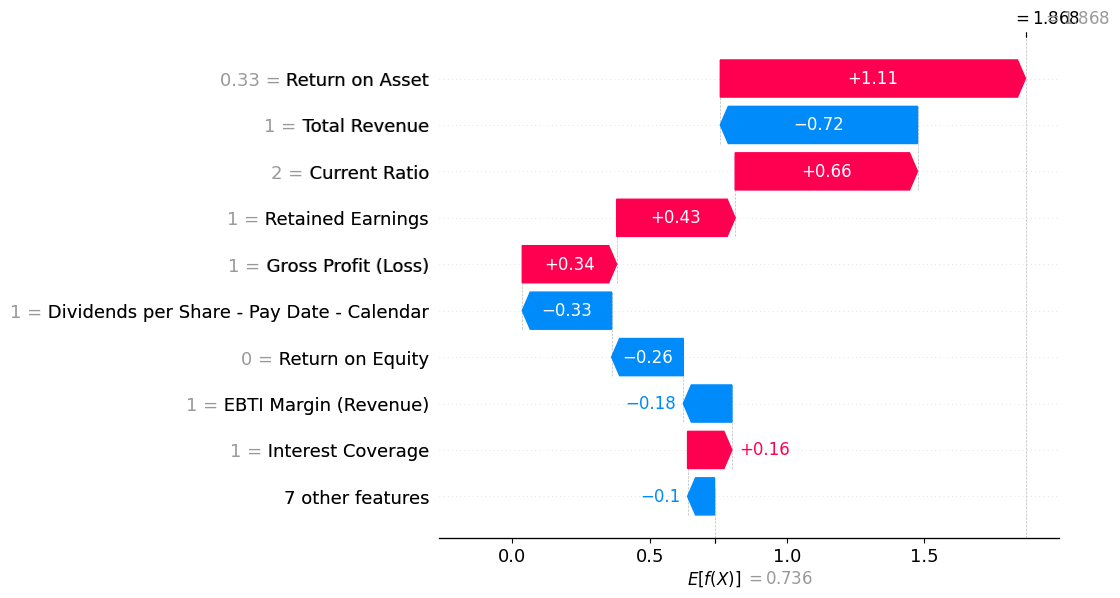
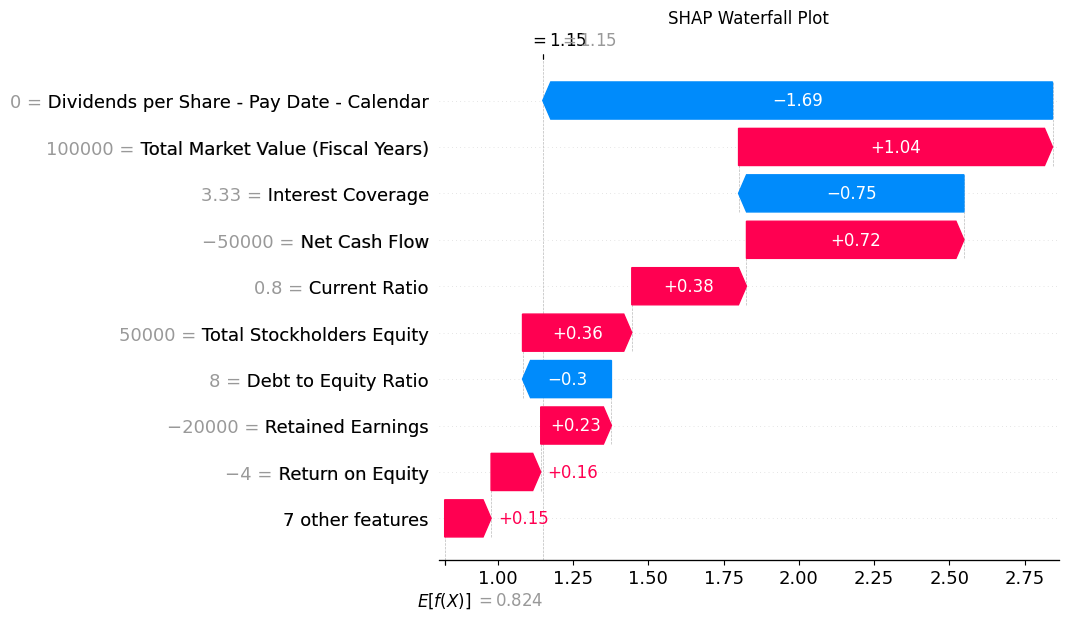
Pushing changes

diff --git a/credit_risk/risk_model/views.py b/credit_risk/risk_model/views.py
@@ -281,31 +281,6 @@ def XGB_XAI(input_df):
     #     # "total_interest_and_related_expense": 50000.0,  # High interest payments
     #     # "sales_turnover_net": 400000.0,  # Slow turnover, low efficiency
     # }
-    
-    # ratios = calculateRatios(input_data)
-    
-    # combined_data = {**input_data, **ratios}
-    
-    # features = {
-    #     "Cash": combined_data["cash"],
-    #     "Earnings Before Interest": combined_data["earnings_before_interest"],
-    #     "Gross Profit (Loss)": combined_data["gross_profit"],
-    #     "Retained Earnings": combined_data["retained_earnings"],
-    #     "EBTI Margin (Revenue)": combined_data["EBTI Margin"],
-    #     "Dividends per Share - Pay Date - Calendar": combined_data["dividends_per_share"],
-    #     "Total Stockholders Equity": combined_data["total_stockholders_equity"],
-    #     "Total Market Value (Fiscal Years)": combined_data["total_market_value"],
-    #     "Total Revenue": combined_data["total_revenue"],
-    #     "Net Cash Flow": combined_data["net_cash_flow"],
-    #     "Debt to Equity Ratio": combined_data["Debt_to_Equity"],
-    #     "Return on Asset": combined_data["Return on Asset Ratio"],
-    #     "Interest Coverage": combined_data["Interest Coverage"],
-    #     "Current Ratio": combined_data["Current Ratio"],
-    #     "Return on Equity": combined_data["Return on Equity"],
-    #     "Quick Ratio": combined_data["Quick Ratio"],
-    # }
-
-    # input_df = pd.DataFrame([features])
 
     predicted_risk_binary = model.predict(input_df)[0]
     predicted_risk_rating = reverse_mapping.get(predicted_risk_binary)
@@ -317,10 +292,6 @@ def XGB_XAI(input_df):
 
     # XAI using SHAP
     shap_explainer = shap.TreeExplainer(model, feature_perturbation='tree_path_dependent')
-
-    # Create mean shap value using our dataset to be used for comparing
-    shap_values = shap_explainer.shap_values(X_train)
-    shap_values_mean = np.mean(shap_values, axis=0)
 
     # Create a shap value for our user's input
     shap_values_input = shap_explainer.shap_values(input_df)
@@ -351,8 +322,11 @@ def XGB_XAI(input_df):
     # Generate and save the SHAP waterfall plot
     plt.figure(figsize=(8, 6))
     shap.plots.waterfall(shap_explanation, show=False)
+    plt.title("SHAP Waterfall Plot")
     plt.savefig(shap_plot_path, bbox_inches="tight")  # Save to static folder
     plt.close("all")
+
+    waterfall_explain = f"From the waterfall plot"
 
     suggestions = indiv_assesment(shap_interpretation, predicted_risk_rating)
 
@@ -364,8 +338,6 @@ def indiv_assesment(shap_interpretation: pd.DataFrame, user_rating):
 
     sort_interpretation = shap_interpretation.sort_values(by=["SHAP VALUE (Lowest Risk)", "Difference"], 
                                                             ascending=[False, False])
-
-    print(sort_interpretation)
 
     for _, row in sort_interpretation.head(16).iterrows():
         feature = row["Feature"]
